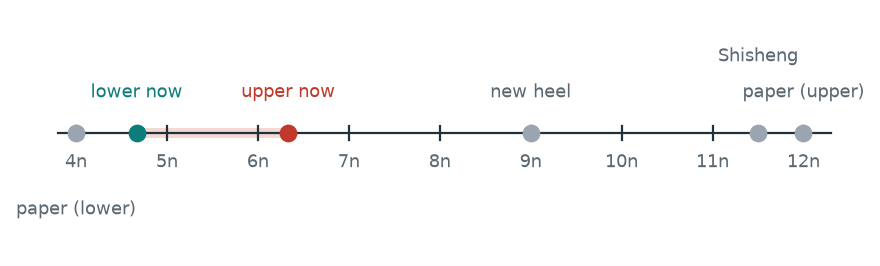
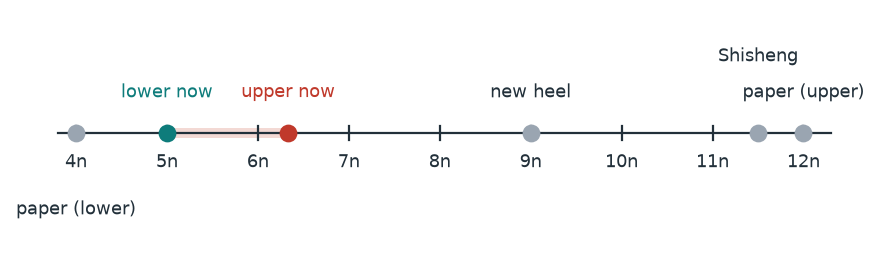
Crossings lower bound X >= 5n-597 (tours and 2-factors) in README, RESULTS and the chart
README.md, bounds-2026/README.md and RESULTS.md now state X >= 5n-597
for even n >= 32, for closed tours and spanning knight 2-factors
(gap/turnstheory/PROOF_5N_V2.md, Claims 50-52); the older proof of
5n-612 (PROOF_5N.md, Claim 42) stays listed. The open crossing
coefficient is now between 5 and 19/3. The progress chart adds the
lower-bound steps of Oct 2-3 (52n/11, 204n/43, 24n/5, 5n), and the
crossings figures show the 5n lower bound.

diff --git a/bounds-2026/writeup/crossings/figures/lower_figs.py b/bounds-2026/writeup/crossings/figures/lower_figs.py
@@ -212,7 +212,7 @@ def fig_corner_box():
     ax.text(R + .9, R + .9, 'charged path', color=CORR, fontsize=9)
     ax.text(1.8, R + .05, 'end row', color=TEAL, fontsize=8, va='top')
     ax.text(R + .7, .5, 'end row', color=TEAL, fontsize=8, va='center')
-    ax.text(R / 2, R / 2, f'box [0,R]²\n(R = {R})', ha='center', va='center', color=DIM, fontsize=9)
+    ax.text(R / 2, R / 2, f'box [0,R]²\n(R = {R})', ha='center', va='center', color=INK, fontsize=9)
     save(fig, 'lb_corner_box')
 
 
@@ -244,13 +244,13 @@ def fig_numberline():
     ax.set_xlim(3.6, 12.6); ax.set_ylim(-1.3, 1.3); ax.axis('off')
     ax.plot([3.8, 12.3], [0, 0], color=INK, lw=1)
     for x in range(4, 13):
-        ax.plot([x, x], [-.08, .08], color=INK, lw=1); ax.text(x, -.38, f'{x}n', ha='center', fontsize=8, color=DIM)
-    ax.add_patch(mp.Rectangle((14 / 3, -.06), 19 / 3 - 14 / 3, .12, fc='#f3d9d4', ec='none', zorder=1))
-    pts = [(4, 'paper (lower)', GREY, -.85), (14 / 3, 'lower now', TEAL, .45), (19 / 3, 'upper now', RED, .45),
+        ax.plot([x, x], [-.08, .08], color=INK, lw=1); ax.text(x, -.38, f'{x}n', ha='center', fontsize=8, color=INK)
+    ax.add_patch(mp.Rectangle((5, -.06), 19 / 3 - 5, .12, fc='#f3d9d4', ec='none', zorder=1))
+    pts = [(4, 'paper (lower)', GREY, -.85), (5, 'lower now', TEAL, .45), (19 / 3, 'upper now', RED, .45),
            (9, 'new heel', GREY, .45), (11.5, 'Shisheng', GREY, .85), (12, 'paper (upper)', GREY, .45)]
     for x, lab, c, yy in pts:
         ax.plot(x, 0, 'o', color=c, ms=7, zorder=3)
-        ax.text(x, yy, lab, ha='center', va='center', fontsize=8, color=c if c != GREY else DIM)
+        ax.text(x, yy, lab, ha='center', va='center', fontsize=8, color=c if c != GREY else INK)
     save(fig, 'lb_numberline')
 
 

diff --git a/bounds-2026/explain/progress_charts.py b/bounds-2026/explain/progress_charts.py
@@ -38,6 +38,10 @@ X_rows = [
     (AT, "Oct 1, 11:14 pm", 4 + 4/11, 19/3, "4.36n", "6.33n", True),
     (AT, "Oct 1, 11:51 pm", 4.5, 19/3, "4.5n", "6.33n", True),
     (AT, "Oct 2, 12:21 am", 14/3, 19/3, "4.67n", "6.33n", True),
+    (AT, "Oct 2, 8:36 pm", 52/11, 19/3, "4.73n", "6.33n", True),
+    (AT, "Oct 2, 9:21 pm", 204/43, 19/3, "4.74n", "6.33n", True),
+    (AT, "Oct 2, 10:11 pm", 24/5, 19/3, "4.8n", "6.33n", True),
+    (AT, "Oct 3, 2:50 am", 5, 19/3, "5n", "6.33n", True),
 ]
 T_rows = [
     (BJMO, "Apr 2019", 6, 9.5, "6n", "9.5n", False),

diff --git a/bounds-2026/RESULTS.md b/bounds-2026/RESULTS.md
@@ -11,6 +11,8 @@ several cycles. Upper bounds give one Hamiltonian cycle.
 | X <= 19n/3+142 | Proved, even n>=96 | All-size insertion proof; complete path matchings and local counts |
 | X <= 9n+7 | Proved, even n>=48 | All-size insertion proof; finite base tours and band counts |
 | X <= 343n/48+671/24 | Proved, even n>=96 | All-size insertion proof; all 24 residue classes |
+| X >= 5n-597 | Proved, closed tours and 2-factors, even n>=32 | Tile count; 3,136-state cut-state certificate |
+| X >= 5n-612 | Proved, closed tours, even n>=32 (older proof) | Quarter payments; strip stability certificate |
 | X >= 14n/3-407 | Proved, closed tours, even n>=32 | Tile and path count; exact strip potentials |
 | X >= 4n-2 | Proved, every tour and 2-factor | Tile-area proof; exact geometry; unconditional Lean theorem |
 | T = 8n-17 (n = 2 mod 8), T = 8n-16 (n = 6 mod 8) | Constructed, even n>=48 in these classes | All-size insertion proof, period 16; exact turn count |
@@ -63,6 +65,31 @@ Lean: no formal construction theorem is claimed.
 
 ```sh
 python3 w-turnstheory/check_lf_proof.py
+```
+
+## Crossing lower bound: 5n-597
+
+Every closed tour on an even board n>=32 has X>=5n-597. The same bound
+holds for every spanning simple knight 2-factor, where crossing pairs
+from different cycles count as well as pairs from the same cycle.
+
+Proof: [PROOF_5N_V2.md](gap/turnstheory/PROOF_5N_V2.md).
+Audit: Claims 50, 51 and 52 in [FINDINGS.md](w-verifier/FINDINGS.md).
+The two text corrections from Claim 52 have been applied.
+The computer input is the cut-state strip certificate with 3,136 states
+(about 4 s; it needs NumPy). Claim 50 checks it again with the Python
+standard library only.
+
+An older proof of X>=5n-612 for closed tours,
+[PROOF_5N.md](gap/turnstheory/PROOF_5N.md) (Claim 42), stays in the repository.
+
+```sh
+python3 w-turnstheory/check_knight_tiles.py
+python3 w-turnstheory/check_corner_box.py
+python3 w-turnstheory/check_square_defects.py
+.venv/bin/python gap/lowerbounds/simple_strip/check_cut_certificate.py
+python3 gap/verifier/claim50_check.py
+python3 gap/verifier/claim52_check.py
 ```
 
 ## Crossing lower bound: 14n/3-O(1)
@@ -188,7 +215,7 @@ python3 w-turnstheory/check_proof.py
 
 - The exact minimum turn count: the sharp constant c in T_min(n) = 8n - c lies between
   17 and 28 for n = 2 mod 8, 16 and 28 for n = 6 mod 8, and 14 and 28 for n = 0, 4 mod 8.
-- The exact minimum crossing coefficient between 14/3 and 19/3.
+- The exact minimum crossing coefficient between 5 and 19/3.
 - A lower bound of 19n/3 for every construction in the fold family.
 - The general carrier lower bound and its fold-family consequence in
   [Claim 17](w-verifier/FINDINGS.md). The audited conditional counting

diff --git a/bounds-2026/README.md b/bounds-2026/README.md
@@ -21,6 +21,8 @@ Shisheng Li (2026); turns (6 &minus; &epsilon;)n &le; T<sub>min</sub> &le; 9.25n
 | X &le; 19n/3 + 142 | Proved, even n &ge; 96 | [PROOF_fold.md](w-turnstheory/PROOF_fold.md) | Claims 12, 21(B) | none | `python3 w-turnstheory/check_fold_proof.py` |
 | X &le; 343n/48 + 671/24 | Proved, even n &ge; 96 | [PROOFS.md &sect;5](w-turnstheory/PROOFS.md) | Claim 8 | none | `python3 w-turnstheory/check_lf_proof.py` |
 | X &le; 9n + 7 | Proved, even n &ge; 48 | [PROOFS.md &sect;1-4](w-turnstheory/PROOFS.md) | Claims 1, 4, 7 | none | `python3 w-turnstheory/check_upper_proofs.py` |
+| X &ge; 5n &minus; 597 | Proved, closed tours and 2-factors (crossings between cycles count), even n &ge; 32 | [PROOF_5N_V2.md](gap/turnstheory/PROOF_5N_V2.md) | Claims 50, 51, 52 | none | [PROOF_5N_V2.md &sect;7](gap/turnstheory/PROOF_5N_V2.md) (six checks; the 3,136-state cut-state certificate `gap/lowerbounds/simple_strip/check_cut_certificate.py` needs NumPy, about 4 s) |
+| X &ge; 5n &minus; 612 | Proved, closed tours, even n &ge; 32 (older proof) | [PROOF_5N.md](gap/turnstheory/PROOF_5N.md) | Claim 42 | none | [PROOF_5N.md &sect;7](gap/turnstheory/PROOF_5N.md) |
 | X &ge; 14n/3 &minus; 407 | Proved, closed tours, even n &ge; 32 | [PROOF_crossings_lower.md](w-turnstheory/PROOF_crossings_lower.md) | Claims 19, 20, 21(B) | conditional on strip stability: [`KT.ClosedTour.fourteen_mul_le_of_stability`](ktlean/Ktlean/TourMain.lean) | `python3 w-turnstheory/check_crossings_lower.py` |
 | X &ge; 4n &minus; 2 | Proved, every tour and 2-factor | [PROOF_crossings_lower.md &sect;1](w-turnstheory/PROOF_crossings_lower.md) | Claims 9, 20 | unconditional: [`KT.ClosedTour.four_mul_sub_two_le_numCrossings`, `KT.TwoFactor.four_mul_sub_two_le_numCrossings`](ktlean/Ktlean/Crossings.lean) | `python3 w-turnstheory/check_knight_tiles.py` |
 | T = 8n &minus; 17 (n &equiv; 2 mod 8), 8n &minus; 16 (n &equiv; 6 mod 8) | Constructed, even n &ge; 48 in these classes | [TURNS_IMPROVED.md](TURNS_IMPROVED.md) | Claims 55b, 56 | none | `python3 w-integrator/allsize_check.py w-integrator/pipeline/ES_res2 --partial` (and `ES_res6`) |

diff --git a/README.md b/README.md
@@ -2,7 +2,7 @@
 
 New results for closed knight's tours on n &times; n boards (X = crossings, T = turns):
 
-- Crossings: X &le; 19n/3 + 142 for even n &ge; 96, and X &ge; 14n/3 &minus; 407 for even n &ge; 32.
+- Crossings: X &le; 19n/3 + 142 for even n &ge; 96, and X &ge; 5n &minus; 597 for even n &ge; 32.
 - Turns: a tour with T = 8n &minus; 14 for even n &ge; 48 (8n &minus; 17 for n &equiv; 2 mod 8, 8n &minus; 16 for n &equiv; 6 mod 8), and T &ge; 8n &minus; 28 for n &ge; 8.
 
 The code, proofs, checks and audits are in **[bounds-2026/](bounds-2026/)**. Its README is the entry point.
